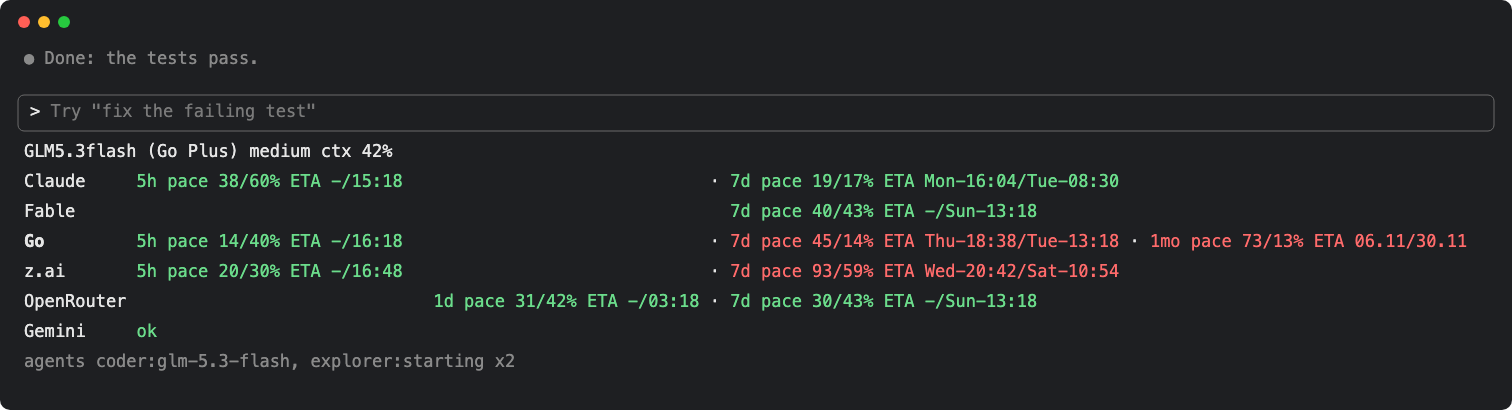
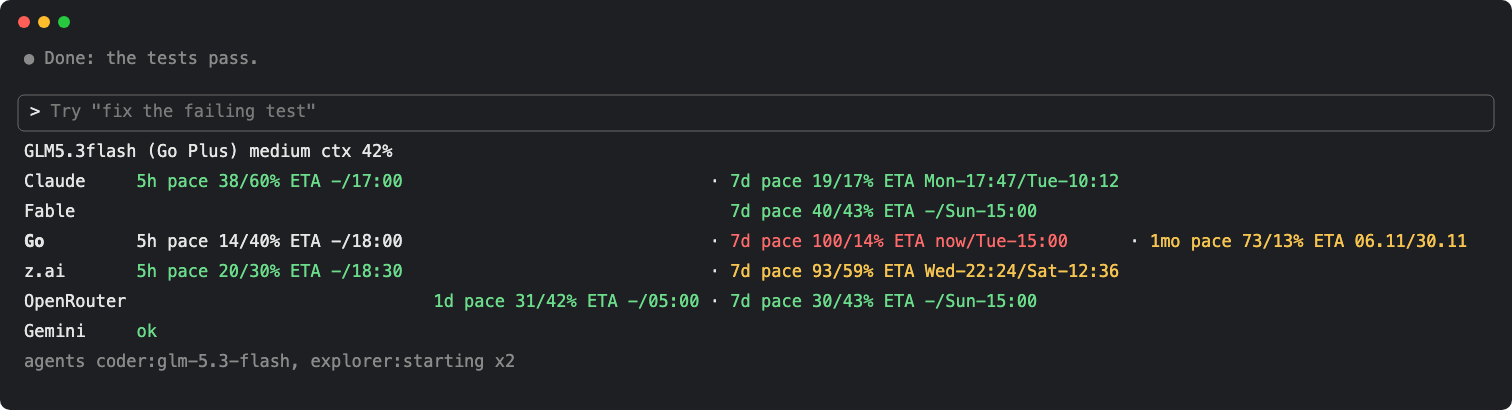
AI update: pace colours: red only for a used-up limit, yellow off pace (#8)
- Red marks a window whose limit is used up (ETA now). Off pace is yellow.
- In a row with a used-up window, on-pace cells have no colour.
- The all-plans example has a used-up Go 7d window to show the rule.
- Version 0.4.1.

diff --git a/plugins/statusline-pace/tests/band.test.tsx b/plugins/statusline-pace/tests/band.test.tsx
@@ -5,6 +5,7 @@ import {
   fmt,
   mergeState,
   oauthPlans,
+  exhausted,
   offPace,
   oneWin,
   planOf,
@@ -334,13 +335,27 @@ test('stateWins unknown shape returns empty', () => {
 
 // --- oneWin tests ---
 
-test('oneWin colours: off-pace -> error, on-pace -> success', () => {
+test('oneWin colours: exhausted -> error, off-pace -> warning, on-pace -> success', () => {
   const now = Date.now()
   const resetsAt = now + 3 * 3600_000
   const winOnPace = { kind: '5h' as const, used: 0.4, resetsAt }
   const winOffPace = { kind: '5h' as const, used: 0.8, resetsAt }
+  const winFull = { kind: '7d' as const, used: 1.0, resetsAt }
   expect(oneWin(winOnPace, now).color).toBe('success')
-  expect(oneWin(winOffPace, now).color).toBe('error')
+  expect(oneWin(winOffPace, now).color).toBe('warning')
+  expect(oneWin({ kind: '7d', used: 0.95, resetsAt }, now).color).toBe('warning')
+  expect(oneWin(winFull, now).color).toBe('error')
+  expect(oneWin(winFull, now).text).toContain('ETA now/')
+})
+
+test('oneWin: a stale window with used 1.0 is not exhausted', () => {
+  const now = Date.now()
+  expect(exhausted({ kind: '5h', used: 1.0, resetsAt: now - 10_000 }, now)).toBe(false)
+  expect(exhausted({ kind: '5h', used: 1.0, resetsAt: now }, now)).toBe(false)
+  expect(exhausted({ kind: '5h', used: 1.0, resetsAt: now + 10_000 }, now)).toBe(true)
+  const c = oneWin({ kind: '5h', used: 1.0, resetsAt: now - 10_000 }, now)
+  expect(c.color).toBe('success')
+  expect(c.text).toContain('ETA -/now')
 })
 
 // --- bandRows tests (aligned layout) ---
@@ -737,6 +752,40 @@ test('bandRows: status colour is success for "ok", warning otherwise', () => {
   expect(rows.length).toBe(2)
   expect(rows[0]!.find(p => p.text === 'slow 5m')!.color).toBe('warning')
   expect(rows[1]!.find(p => p.text === 'ok')!.color).toBe('success')
+})
+
+test('bandRows: on-pace cells lose their colour in a row with an exhausted cell', () => {
+  const state = {
+    plans: {
+      go: {
+        '5h': { utilization: 0.05, reset: SEC + 3 * 3600 },
+        '7d': { utilization: 0.95, reset: SEC + 86400 },
+        '1mo': { utilization: 1.0, reset: SEC + 10 * 86400 },
+      },
+      zai: { '5h': { utilization: 0.05, reset: SEC + 3 * 3600 } },
+    },
+  }
+  const rows = bandRows({ effort: '', windows: [], ctx: null }, 'x', NOW_TEST, false, false, state)
+  expect(rows.length).toBe(2)
+  const cell = (r: number, k: string) => rows[r]!.find(p => p.text.startsWith(k + ' pace'))!
+  expect(cell(0, '5h').color).toBeUndefined()
+  expect(cell(0, '7d').color).toBe('warning')
+  expect(cell(0, '1mo').color).toBe('error')
+  expect(cell(1, '5h').color).toBe('success')
+})
+
+test('bandRows: a stale full window does not drop the green of its row', () => {
+  const state = {
+    plans: {
+      go: {
+        '5h': { utilization: 1.0, reset: SEC - 10 },
+        '7d': { utilization: 0.05, reset: SEC + 86400 },
+      },
+    },
+  }
+  const rows = bandRows({ effort: '', windows: [], ctx: null }, 'x', NOW_TEST, false, false, state)
+  expect(rows[0]!.find(p => p.text.startsWith('7d pace'))!.color).toBe('success')
+  expect(rows[0]!.find(p => p.text.startsWith('5h pace'))!.color).toBe('success')
 })
 
 test('bandRows: status is cut to 40 characters', () => {

diff --git a/plugins/statusline-pace/hooks/register.tsx b/plugins/statusline-pace/hooks/register.tsx
@@ -174,15 +174,20 @@ export function offPace(kind: Kind, util: number, frac: number): boolean {
   return util >= 0.9 || util > frac + 0.05
 }
 
-// One window part with colour from offPace.
-export function oneWin(win: Win, now: number) {
+// Mirrors statusline.py exhausted: not stale and the limit is used up.
+export function exhausted(win: Win, now: number): boolean {
+  return win.resetsAt - now > 0 && win.used >= 1
+}
+
+// One window part: 'error' when exhausted, 'warning' when off pace, else 'success'.
+export function oneWin(win: Win, now: number): { text: string; color?: string } {
   const left = win.resetsAt - now
   const stale = left <= 0
   const util = stale ? 0 : win.used
   const frac = stale ? 0 : Math.min(1, Math.max(0, 1 - left / LENGTH[win.kind]))
   const at = now + ((1 - util) / util) * frac * LENGTH[win.kind]
   const out = util >= 1 ? 'now' : util <= 0 || frac <= 0 || at >= win.resetsAt ? '-' : fmt(win.kind, at)
-  const color = offPace(win.kind, util, frac) ? 'error' : 'success'
+  const color = exhausted(win, now) ? 'error' : offPace(win.kind, util, frac) ? 'warning' : 'success'
   const usedPct = Math.floor(util * 100 + 1e-9)
   const text = `${win.kind} pace ${usedPct}/${Math.round(frac * 100)}% ETA ${out}/${stale ? 'now' : fmt(win.kind, win.resetsAt)}`
   return { text, color }
@@ -225,7 +230,14 @@ export function bandRows(
   const head = showModel && short !== '' ? `${short}${effort !== '' ? ' ' + effort : ''}${ctx}` : ''
   if (plans.length === 0) return head !== '' && ctx !== '' ? [[{ text: head }]] : []
 
-  const cells = plans.map(r => new Map(r.wins.map(w => [w.kind, oneWin(w, now)])))
+  // A row with an exhausted cell drops the green of its on-pace cells.
+  const cells = plans.map(r => {
+    const plain = r.wins.some(w => exhausted(w, now))
+    return new Map(r.wins.map(w => {
+      const c = oneWin(w, now)
+      return [w.kind, plain && c.color === 'success' ? { text: c.text } : c]
+    }))
+  })
   const kinds = KIND_ORDER.filter(k => cells.some(c => c.has(k)))
   const width = new Map(kinds.map(k => [k, Math.max(...cells.map(c => c.get(k)?.text.length ?? 0))]))
   const labelWidth = Math.max(...plans.map(r => PLAN_NAME[r.plan].length))

diff --git a/tests/test_statusline.py b/tests/test_statusline.py
@@ -37,11 +37,11 @@ class Eta(unittest.TestCase):
             out = sl.pace_part({"five_hour": {"used_percentage": pct, "resets_at": NOW + 9000}}, NOW)
             self.assertIn("5h pace %d/" % pct, out)
 
-    def test_colours(self):  # green on pace, red off pace
+    def test_colours(self):  # green on pace, yellow off pace, red used up
         rl = lambda u, r: {"five_hour": {"used_percentage": u, "resets_at": NOW + r}}
         self.assertTrue(sl.pace_part(rl(60, 3 * 3600), NOW).startswith(sl.GRN))   # 60% at 40% elapsed: under 1.5x
-        self.assertTrue(sl.pace_part(rl(65, 3 * 3600), NOW).startswith(sl.RED))   # over 1.5x elapsed
-        self.assertTrue(sl.pace_part(rl(80, 600), NOW).startswith(sl.RED))        # over the 75% cap
+        self.assertTrue(sl.pace_part(rl(65, 3 * 3600), NOW).startswith(sl.YEL))   # over 1.5x elapsed
+        self.assertTrue(sl.pace_part(rl(80, 600), NOW).startswith(sl.YEL))        # over the 75% cap
         self.assertTrue(sl.pace_part(rl(5, 3600), NOW).startswith(sl.GRN))
         self.assertTrue(sl.pace_part(rl(100, 3600), NOW).startswith(sl.RED))
         self.assertTrue(sl.pace_part(rl(50, -10), NOW).startswith(sl.GRN))
@@ -160,7 +160,7 @@ class Plans(unittest.TestCase):
         self.assertIn("7d pace 45/14%", out)
         self.assertIn("1mo pace 73/13%", out)
         self.assertTrue(out.startswith(sl.GRN))                 # 5h on pace
-        self.assertIn(sl.RED + "1mo pace", out)                  # 73% used at 13% of the month
+        self.assertIn(sl.YEL + "1mo pace", out)                  # 73% used at 13% of the month: off pace
         self.assertIn(" · ", out)
         self.assertNotIn("; ", out)
 
@@ -440,6 +440,49 @@ class BuildRows(unittest.TestCase):
         # ctx should be in head (before any plan)
         # Row 1: Claude with windows
         self.assertIn("5h pace 60/", rows[1])
+
+
+class ExhaustedColours(unittest.TestCase):
+    def test_exhausted_cell_is_red(self):
+        out = sl.window_part("7d", 1.0, NOW + 86400, NOW)
+        self.assertTrue(out.startswith(sl.RED + "7d pace 100/"))
+        self.assertIn("ETA now/", out)
+
+    def test_off_pace_not_exhausted_is_yellow(self):
+        self.assertTrue(sl.window_part("7d", 0.95, NOW + 86400, NOW).startswith(sl.YEL))
+        self.assertTrue(sl.window_part("5h", 0.8, NOW + 3 * 3600, NOW).startswith(sl.YEL))
+
+    def test_on_pace_in_exhausted_row_has_no_colour(self):
+        state = {"plans": {"go": {"5h": {"utilization": 0.05, "reset": NOW + 3 * 3600},
+                                  "7d": {"utilization": 0.95, "reset": NOW + 86400},
+                                  "1mo": {"utilization": 1.0, "reset": NOW + 10 * 86400}}}}
+        rows = sl.build_rows([], "glm-5.3-flash-cloud-opencode-go-direct", GO_LABEL, "", False, False, None, state, NOW)
+        self.assertEqual(len(rows), 1)
+        self.assertNotIn(sl.GRN, rows[0])
+        self.assertIn(" 5h pace 5/", rows[0])                    # no colour code before the on-pace cell
+        self.assertIn(sl.YEL + "7d pace 95/", rows[0])
+        self.assertIn(sl.RED + "1mo pace 100/", rows[0])
+
+    def test_on_pace_in_row_without_exhausted_is_green(self):
+        state = {"plans": {"go": {"5h": {"utilization": 0.05, "reset": NOW + 3 * 3600},
+                                  "1mo": {"utilization": 1.0, "reset": NOW + 10 * 86400}},
+                           "zai": {"5h": {"utilization": 0.05, "reset": NOW + 3 * 3600}}}}
+        rows = sl.build_rows([], "glm-5.3-flash-cloud-zai-direct", ZAI_LABEL, "", False, False, None, state, NOW)
+        self.assertEqual(len(rows), 2)
+        self.assertIn(sl.GRN + "5h pace 5/", rows[1])           # z.ai row has no used-up window
+        self.assertNotIn(sl.GRN, rows[0])                        # Go row has one
+
+    def test_stale_full_window_is_not_exhausted(self):
+        self.assertFalse(sl.exhausted(1.0, NOW - 10, NOW))
+        self.assertFalse(sl.exhausted(1.0, NOW, NOW))
+        self.assertTrue(sl.exhausted(1.0, NOW + 10, NOW))
+        out = sl.window_part("5h", 1.0, NOW - 10, NOW)
+        self.assertTrue(out.startswith(sl.GRN))
+        self.assertIn("ETA -/now", out)
+        rows = sl.build_rows([], "x", "x", "", False, False, None,
+                             {"plans": {"go": {"5h": {"utilization": 1.0, "reset": NOW - 10},
+                                               "7d": {"utilization": 0.05, "reset": NOW + 86400}}}}, NOW)
+        self.assertIn(sl.GRN + "7d pace", rows[0])
 
 
 class BadInput(unittest.TestCase):

diff --git a/statusline.py b/statusline.py
@@ -19,7 +19,9 @@ status  a plan may carry a short text (`plans.<plan>.status`, e.g. "ok", "slow 3
 pace    used % / elapsed % of the window
 ETA     when the window reaches 100% if the burn so far continues / when the window resets
           (`-` when the limit will not run out before the reset, `now` when it is already at 100%)
-colour  green on pace, red off pace: 5h used > max(1.5 x elapsed, 10%) or > 75%; 1d/7d/1mo used >= 90% OR used > elapsed + 5%
+colour  red when the limit is used up (not stale, used >= 100%, `ETA now/...`); yellow off pace: 5h used > max(1.5 x elapsed,
+          10%) or > 75%; 1d/7d/1mo used >= 90% OR used > elapsed + 5%; green on pace; no colour on pace in a plan row
+          that has a used-up window
 bold    the plan label (Claude/Fable/Go/z.ai/OpenRouter) of the plan behind the selected model
 
 Plans (row order): claude, fable, go, zai, openrouter, gemini.
@@ -87,16 +89,25 @@ def off_pace(w, util, elapsed):
     return util >= 0.9 or util > elapsed + 0.05
 
 
-def window_part(w, util, reset, now):
+def exhausted(util, reset, now):
+    """The window is not stale (now < reset) and its limit is used up (the cell shows `ETA now/...`)."""
+    return math.isfinite(util) and math.isfinite(reset) and now < reset and util >= 1
+
+
+def window_part(w, util, reset, now, plain=False):
+    """One window cell: red when exhausted, yellow when off pace, green on pace. plain=True drops the green (an on-pace
+    cell in a row that has an exhausted cell)."""
     if not (math.isfinite(util) and math.isfinite(reset)):
         return ""
+    used_up = exhausted(util, reset, now)
     if now >= reset:  # stale data: the window has already rolled over
         util, elapsed = 0.0, 0.0
     else:
         elapsed = min(1.0, max(0.0, 1 - (reset - now) / WINDOWS[w]))
-    col = RED if off_pace(w, util, elapsed) else GRN
+    col = RED if used_up else YEL if off_pace(w, util, elapsed) else "" if plain else GRN
     return "%s%s pace %d/%d%% ETA %s/%s%s" % (col, w, math.floor(util * 100 + 1e-9), round(elapsed * 100),
-                                            eta(w, util, elapsed, now, reset), fmt(w, reset) if now < reset else "now", RST)
+                                            eta(w, util, elapsed, now, reset), fmt(w, reset) if now < reset else "now",
+                                            RST if col else "")
 
 
 def windows_part(wins, now):
@@ -320,7 +331,8 @@ def build_rows(snap_wins, model_id, label, effort, show_model, show_context, ctx
     head = short + (" " + effort if effort else "") + ctx if show_model and short else ""
     if not plans:
         return [head] if head and ctx else []
-    cells = [{w: window_part(w, u, r, now) for w, u, r in wins} for _, wins, _ in plans]
+    cells = [{w: window_part(w, u, r, now, plain=any(exhausted(u2, r2, now) for _, u2, r2 in wins)) for w, u, r in wins}
+             for _, wins, _ in plans]
     kinds = [k for k in KIND_ORDER if any(k in c for c in cells)]
     width = {k: max(visible_len(c.get(k, "")) for c in cells) for k in kinds}
     label_w = max(len(PLAN_DISPLAY[p]) for p, _, _ in plans)

diff --git a/README.md b/README.md
@@ -1,10 +1,10 @@
 # claude-code-statusline-pace
 
 Shows how fast you burn your Claude Code subscription limits and **when the plan windows will run out**: the used
-share against the elapsed share of each window (5h, 7d, ...), a run-out ETA, and red when you are ahead of pace. A last
+share against the elapsed share of each window (5h, 7d, ...), a run-out ETA, yellow when you are ahead of pace and red when a limit is used up. A last
 line lists the sub-agents running right now and the model each one really answered with.
 
-**Current release: [v0.4.0](https://github.com/vespexx/claude-code-statusline-pace/releases/tag/v0.4.0)** —
+**Current release: [v0.4.1](https://github.com/vespexx/claude-code-statusline-pace/releases/tag/v0.4.1)** —
 [install it as a plugin](#a-plugin-band-above-the-prompt) or [as a status line](#b-a-status-line-below-the-prompt).
 
 ## Two ways to show it
@@ -55,7 +55,7 @@ with three sub-agents running:
 GLM5.3flash (Go Plus) medium ctx 42%
 Claude     5h pace 38/60% ETA -/15:18                              · 7d pace 19/17% ETA Mon-16:05/Tue-08:30
 Fable                                                                7d pace 40/43% ETA -/Sun-13:18
-Go         5h pace 14/40% ETA -/16:18                              · 7d pace 45/14% ETA Thu-18:38/Tue-13:18 · 1mo pace 73/13% ETA 06.11/30.11
+Go         5h pace 14/40% ETA -/16:18                              · 7d pace 100/14% ETA now/Tue-13:18      · 1mo pace 73/13% ETA 06.11/30.11
 z.ai       5h pace 20/30% ETA -/16:48                              · 7d pace 93/59% ETA Wed-20:42/Sat-10:54
 OpenRouter                              1d pace 31/42% ETA -/03:18 · 7d pace 30/43% ETA -/Sun-13:18
 Gemini     ok
@@ -77,11 +77,11 @@ Claude Code screen, and the times are relative to the moment of the run. The plu
 | `5h` / `1d` / `7d` / `1mo` | the rate-limit window (column order fixed) |
 | `pace 38/60%` | used share of the limit / elapsed share of the window |
 | `ETA 15:20/16:40` | when the limit hits 100% at the current burn / when the window resets |
-| `ETA now/16:40` | the limit is already at 100% (red) |
+| `ETA now/16:40` | the limit is already used up (red) |
 | `ETA -/13:03` | at the current burn the limit will not run out before the reset |
 | ` · ` | separator between windows of the same row |
 | `ok`, `slow 3.8-flash till 13:20` | a plan's status text from the windows file (green `ok`, else yellow), for plans without usage numbers |
-| red / green | off pace (red) or on pace (green) |
+| red / yellow / green / no colour | limit already used up (red), off pace (yellow), on pace (green), on pace in a row that already has a used-up limit (no colour) |
 | `agents coder:glm-5.3-flash, explorer:starting x2` | last line, dim, only while sub-agents run: type and the model of its last answer (`starting` before the first); a sub-agent counts as running while its transcript was written in the last 120 s |
 
 **Columns are aligned** (monospace): each window column has the width of its widest cell; a plan's missing window is
@@ -91,10 +91,11 @@ padded to the longest label. A single plan row is not padded at all.
 **How the ETA is computed.** Linear extrapolation: the used share per elapsed share of the window stays constant, so
 `eta = now + (1 - used) / used * elapsed_time`. No history is stored; it is recomputed on every refresh.
 
-**Off-pace rules** (the same thresholds a pace-aware model router uses to stop sending work to a plan):
-- **5h**: red when used > `max(1.5 × elapsed, 10%)` or used > 75%.
-- **1d / 7d / 1mo**: red when used ≥ 90% **or** used > elapsed + 5%.
-- Everything else is green.
+**Colour rules** (the off-pace thresholds are the same a pace-aware model router uses to stop sending work to a plan):
+- **Red**: the limit is already used up: used ≥ 100% and the window has not reset yet (`ETA now/...`).
+- **5h**: yellow when used > `max(1.5 × elapsed, 10%)` or used > 75%.
+- **1d / 7d / 1mo**: yellow when used ≥ 90% **or** used > elapsed + 5%.
+- Everything else is on pace: green, or no colour when the same row has a used-up (red) window.
 
 ## Install
 
@@ -162,7 +163,7 @@ others one at a time (`/plugin disable <name>`) and open a new session.
 Needs Python 3 (stdlib only). Download the script of the release:
 
 ```bash
-curl -fsSL https://raw.githubusercontent.com/vespexx/claude-code-statusline-pace/v0.4.0/statusline.py -o ~/.claude/statusline-pace.py
+curl -fsSL https://raw.githubusercontent.com/vespexx/claude-code-statusline-pace/v0.4.1/statusline.py -o ~/.claude/statusline-pace.py
 ```
 
 Merge this key into your `~/.claude/settings.json` (do not replace the file), then restart Claude Code. `statusLine` is
@@ -201,7 +202,7 @@ Gemini row. The author runs a private exporter (every 5 minutes) that polls the 
 that writes the same shape works. To write it by hand or from a cron job, use the generator (in a clone of this repo, or download it alone):
 
 ```bash
-curl -fsSL https://raw.githubusercontent.com/vespexx/claude-code-statusline-pace/v0.4.0/scripts/make_windows.py -o make_windows.py
+curl -fsSL https://raw.githubusercontent.com/vespexx/claude-code-statusline-pace/v0.4.1/scripts/make_windows.py -o make_windows.py
 python3 make_windows.py --plan go 5h=14%@2026-11-04T18:00 7d=45%@2026-11-09T03:00 \
   --plan gemini status=ok -o ~/.local/state/subscription-quotas/windows.json
 ```
